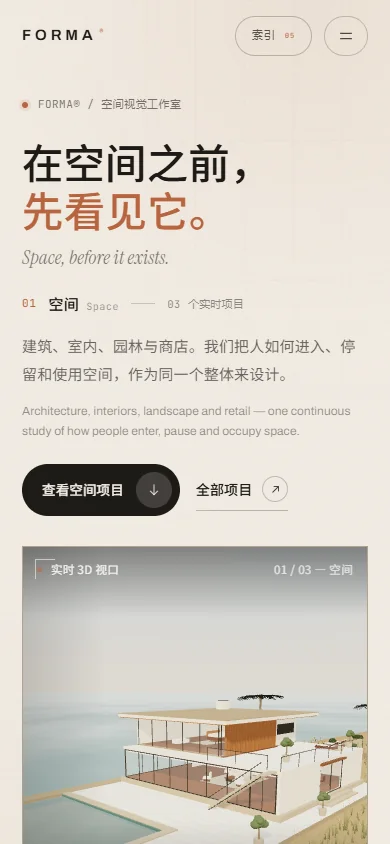
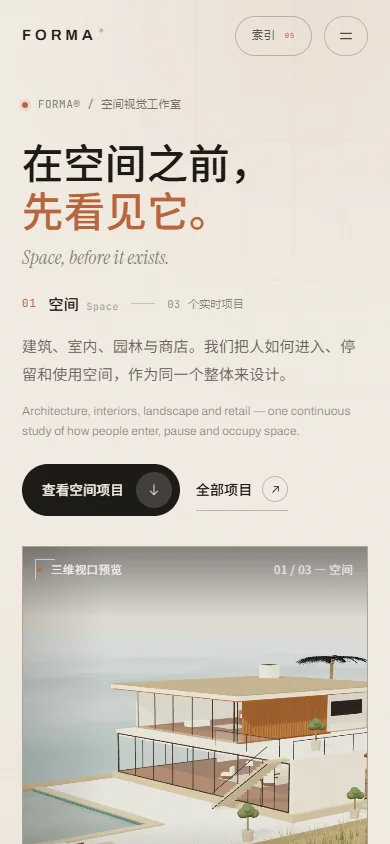
fix: smooth mobile index and menu interactions, center archive categories

Changed region(s): [[0.0615, 0.7701, 0.9538, 1.0], [0.1231, 0.6469, 0.3077, 0.6777]]

diff --git a/src/components/LivePreview.tsx b/src/components/LivePreview.tsx
@@ -11,6 +11,8 @@ interface LivePreviewProps {
   onOpen: () => void;
   /** Only mount the live iframe once the opening sequence is over. */
   enabled: boolean;
+  /** Hide the iframe while a full-screen overlay is open without unloading it. */
+  suspended?: boolean;
 }
 
 export default function LivePreview({
@@ -20,6 +22,7 @@ export default function LivePreview({
   categoryCount,
   onOpen,
   enabled,
+  suspended = false,
 }: LivePreviewProps) {
   const [frameLoaded, setFrameLoaded] = useState(false);
   const [frameReady, setFrameReady] = useState(false);
@@ -56,7 +59,7 @@ export default function LivePreview({
           {enabled && project && (
             <iframe
               key={project.slug}
-              className={`live-preview__iframe${frameLoaded ? ' is-loaded' : ''}`}
+              className={`live-preview__iframe${frameLoaded ? ' is-loaded' : ''}${suspended ? ' is-suspended' : ''}`}
               src={`${project.base}?cover=1&embed=hero`}
               title={`${project.title} 实时三维预览`}
               tabIndex={-1}
@@ -94,7 +97,7 @@ export default function LivePreview({
         <div className="live-preview__hud live-preview__hud--top">
           <span className="live-preview__live">
             <span className="status-dot" aria-hidden="true" />
-            实时 3D 视口
+            {enabled ? '实时 3D 视口' : '三维视口预览'}
           </span>
           <span>
             {String(position).padStart(2, '0')} / {String(categoryCount).padStart(2, '0')} — {category.zh}
@@ -124,7 +127,11 @@ export default function LivePreview({
       </div>
 
       <div className="live-preview__caption">
-        <span>实时渲染的三维现场 · 打开模型即可进入</span>
+        <span>
+          {enabled
+            ? '实时渲染的三维现场 · 打开模型即可进入'
+            : '三维场景静帧 · 点击进入完整实时模型'}
+        </span>
         <span className="live-preview__scale">WEBGL / 3D</span>
       </div>
     </div>

diff --git a/src/styles/global.css b/src/styles/global.css
@@ -48,7 +48,7 @@ body {
 body.is-locked,
 body.menu-open {
   overflow: hidden;
-  height: 100svh;
+  overscroll-behavior: none;
 }
 
 #root {
@@ -561,6 +561,7 @@ canvas {
 
 /* Mobile menu */
 .mobile-menu {
+  pointer-events: none;
   position: fixed;
   inset: 0;
   z-index: 110;
@@ -579,6 +580,7 @@ canvas {
 }
 
 .mobile-menu.is-open {
+  pointer-events: auto;
   opacity: 1;
   visibility: visible;
   transform: translateY(0);
@@ -5080,5 +5082,64 @@ section[id] {
 @media (max-width: 1200px) {
   .category-rail__swipe {
     display: inline;
+  }
+}
+
+/* Keep the live preview loaded while overlays are open; pausing display
+   avoids WebGL work and removes the reload/freeze cycle on repeated toggles. */
+.live-preview__iframe.is-suspended {
+  display: none;
+}
+
+/* Mobile archive category pills: center the label inside the 38px pill. */
+@media (max-width: 900px) {
+  .archive__nav button {
+    align-items: center;
+    line-height: 1;
+  }
+
+  .archive__nav button > span:first-child {
+    display: inline-flex;
+    align-items: center;
+    min-height: 1em;
+  }
+}
+
+/* Mobile archive: use a cheap fade/slide instead of a full-screen clip-path
+   animation, and let the close action become available almost immediately. */
+@media (max-width: 900px) {
+  .archive {
+    clip-path: none;
+    opacity: 0;
+    transform: translateY(14px);
+    transition:
+      opacity 0.28s var(--ease),
+      transform 0.28s var(--ease);
+  }
+
+  .archive.is-open {
+    clip-path: none;
+    opacity: 1;
+    transform: translateY(0);
+  }
+
+  .archive.is-closing {
+    clip-path: none;
+    opacity: 0;
+    transform: translateY(10px);
+  }
+}
+
+/* Mobile controls should react on first tap; avoid double-tap zoom delay. */
+@media (max-width: 900px) {
+  .header-index,
+  .menu-toggle,
+  .mobile-menu__close,
+  .mobile-menu__nav button,
+  .mobile-menu__nav a,
+  .archive__close,
+  .archive__nav button,
+  .archive-row {
+    touch-action: manipulation;
   }
 }

diff --git a/src/App.tsx b/src/App.tsx
@@ -22,8 +22,12 @@ export default function App() {
   const [hoveredProjectSlug, setHoveredProjectSlug] = useState<string | null>(null);
   const [viewerSlug, setViewerSlug] = useState<string | null>(null);
   const [archiveOpen, setArchiveOpen] = useState(false);
+  const [menuOpen, setMenuOpen] = useState(false);
   const [heroVisible, setHeroVisible] = useState(true);
   const [heroReady, setHeroReady] = useState(false);
+  const [livePreviewAllowed, setLivePreviewAllowed] = useState(
+    () => typeof window === 'undefined' || window.matchMedia('(min-width: 901px)').matches,
+  );
 
   const counts = useMemo(() => {
     const map = new Map<string, number>();
@@ -71,6 +75,14 @@ export default function App() {
     const timer = window.setTimeout(() => setHeroReady(true), 650);
     return () => window.clearTimeout(timer);
   }, [introDone]);
+
+  useEffect(() => {
+    const query = window.matchMedia('(min-width: 901px)');
+    const update = () => setLivePreviewAllowed(query.matches);
+    update();
+    query.addEventListener('change', update);
+    return () => query.removeEventListener('change', update);
+  }, []);
 
   useEffect(() => {
     const hero = document.getElementById('top');
@@ -202,6 +214,7 @@ export default function App() {
           projects={PROJECTS}
           onOpenArchive={() => setArchiveOpen(true)}
           onJump={handleJump}
+          onMenuChange={setMenuOpen}
         />
 
         <main>
@@ -266,7 +279,8 @@ export default function App() {
                   position={1}
                   categoryCount={activeProjects.length}
                   onOpen={() => leadProject && openProject(leadProject.slug)}
-                  enabled={introDone && heroReady && !overlaysOpen && heroVisible}
+                  enabled={introDone && heroReady && heroVisible && livePreviewAllowed}
+                  suspended={archiveOpen || Boolean(viewerProject) || menuOpen}
                 />
               </div>
             </div>

diff --git a/src/components/SiteHeader.tsx b/src/components/SiteHeader.tsx
@@ -6,9 +6,10 @@ interface SiteHeaderProps {
   projects: ProjectRecord[];
   onOpenArchive: () => void;
   onJump: (target: 'work' | 'disciplines' | 'studio') => void;
+  onMenuChange?: (open: boolean) => void;
 }
 
-export default function SiteHeader({ projects, onOpenArchive, onJump }: SiteHeaderProps) {
+export default function SiteHeader({ projects, onOpenArchive, onJump, onMenuChange }: SiteHeaderProps) {
   const [scrolled, setScrolled] = useState(false);
   const [menuOpen, setMenuOpen] = useState(false);
   const closeRef = useRef<HTMLButtonElement>(null);
@@ -21,13 +22,20 @@ export default function SiteHeader({ projects, onOpenArchive, onJump }: SiteHead
   }, []);
 
   useEffect(() => {
+    onMenuChange?.(menuOpen);
+  }, [menuOpen, onMenuChange]);
+
+  useEffect(() => {
     document.body.classList.toggle('menu-open', menuOpen);
-    if (menuOpen) window.setTimeout(() => closeRef.current?.focus(), 120);
+    const focusTimer = menuOpen
+      ? window.setTimeout(() => closeRef.current?.focus(), 120)
+      : null;
     const onKeyDown = (event: KeyboardEvent) => {
       if (event.key === 'Escape' && menuOpen) setMenuOpen(false);
     };
     window.addEventListener('keydown', onKeyDown);
     return () => {
+      if (focusTimer !== null) window.clearTimeout(focusTimer);
       document.body.classList.remove('menu-open');
       window.removeEventListener('keydown', onKeyDown);
     };

diff --git a/src/components/ArchiveOverlay.tsx b/src/components/ArchiveOverlay.tsx
@@ -22,6 +22,7 @@ export default function ArchiveOverlay({
   const [query, setQuery] = useState('');
   const closeRef = useRef<HTMLButtonElement>(null);
   const previousFocus = useRef<Element | null>(null);
+  const closeTimer = useRef<number | null>(null);
 
   const counts = useMemo(() => {
     const map = new Map<string, number>();
@@ -65,9 +66,24 @@ export default function ArchiveOverlay({
 
   const close = useCallback(() => {
     if (closing) return;
+    const isCompact = window.matchMedia('(max-width: 900px)').matches;
+    // On phones, close immediately: a delayed teardown reads as an
+    // unresponsive button when users tap repeatedly. Desktop keeps the
+    // full exit animation.
+    if (isCompact) {
+      onClose();
+      return;
+    }
     setClosing(true);
-    window.setTimeout(onClose, 480);
+    closeTimer.current = window.setTimeout(onClose, 480);
   }, [closing, onClose]);
+
+  useEffect(
+    () => () => {
+      if (closeTimer.current !== null) window.clearTimeout(closeTimer.current);
+    },
+    [],
+  );
 
   useEffect(() => {
     const onKeyDown = (event: KeyboardEvent) => {

diff --git a/README.md b/README.md
@@ -116,8 +116,9 @@ building-web/
 
 ### 3. 真正的按需 3D 加载
 
-- 首页只加载当前类别的第一件项目作为实时预览（一个 iframe）。
-- 滚动离开首屏、打开索引或查看器时，该预览 iframe 自动卸载。
+- 桌面端首页只加载当前类别的第一件项目作为实时预览（一个 iframe）；手机首屏改用轻量封面静帧，点击后再进入完整 3D，避免首屏 WebGL 与索引 / 菜单抢性能。
+- 打开索引或查看器时，预览 iframe 只做隐藏暂停，不再反复卸载重载；关闭后立即恢复。
+- 滚动离开首屏后，预览 iframe 会卸载；滚回再按需重新加载。
 - 打开某个项目才加载对应页面；关闭或切换时立刻卸载旧 iframe，释放 WebGL context / 纹理 / 几何体。
 - 首页只读取体积很小的项目封面图；真正的 3D 页面只在打开对应项目时才加载。
 

diff --git a/docs/adding-a-study.md b/docs/adding-a-study.md
@@ -141,8 +141,9 @@ src/lib/categories.ts
 
 ## 父级如何加载项目（懒加载）
 
-- 首页只加载**当前分类的第一件项目**作为实时预览（iframe）。
-- 滚动离开首屏后，该 iframe 会卸载。
+- 桌面端首页只加载**当前分类的第一件项目**作为实时预览（iframe）；移动端首屏使用轻量封面静帧，点击后才进入完整 3D。
+- 打开索引或查看器时，预览 iframe 仅隐藏暂停，不在每次开关时重新加载；关闭后恢复。
+- 滚动离开首屏后，预览 iframe 会卸载；滚回时按需重新加载。
 - 打开项目查看器时才加载对应项目的完整页面；关闭或切换时会立刻卸载旧 iframe，释放 WebGL context / 纹理 / 几何体。
 - 因此即使以后有几十个项目，也不会在首页一次性加载所有资源。
 
